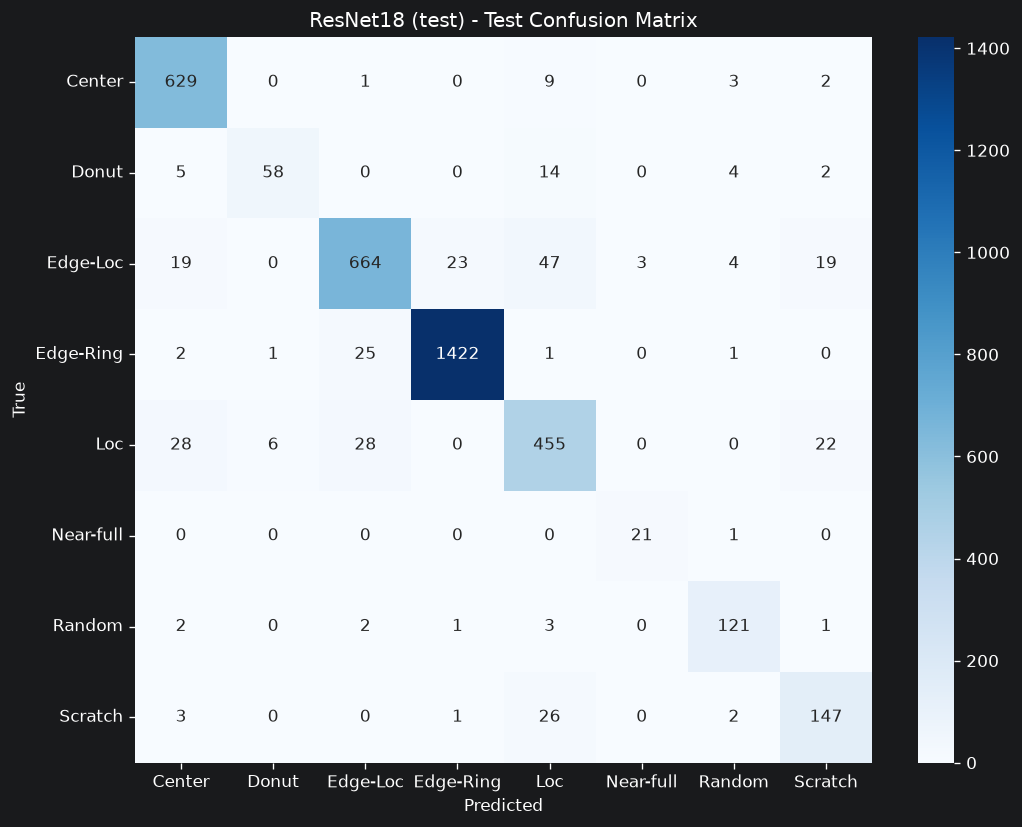
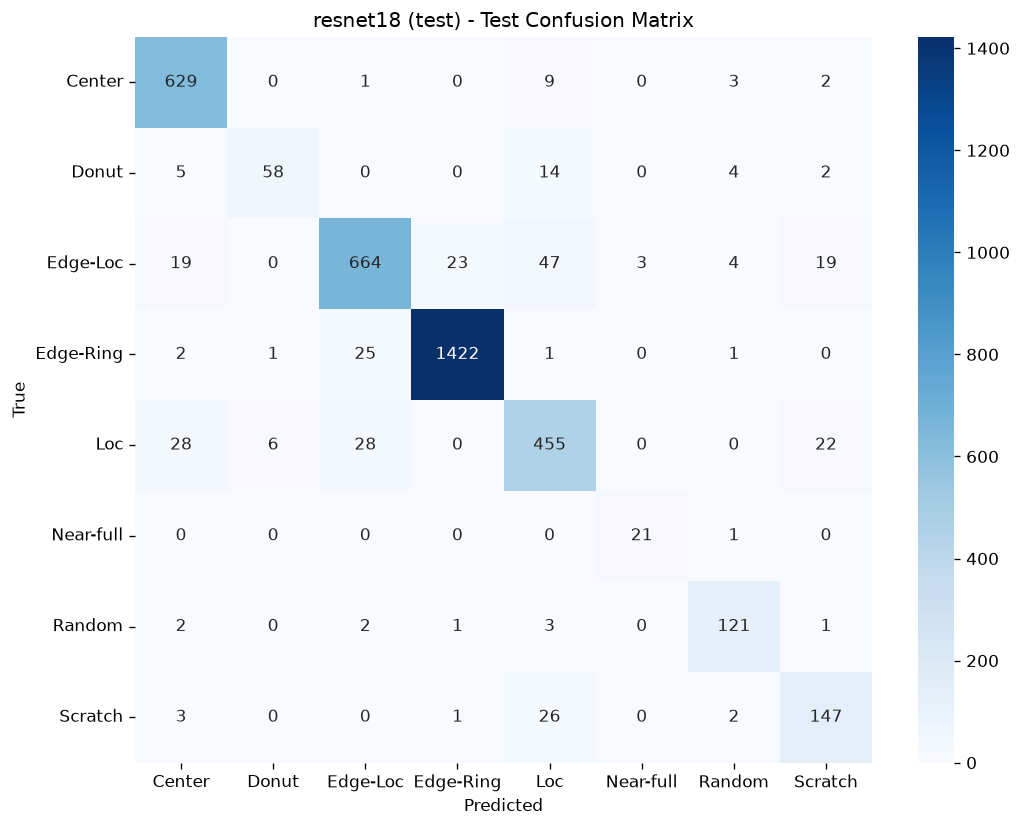
feat: train/evaluate CLI with parity-verified refactor (T2+T3)

diff --git a/src/wm811k/train.py b/src/wm811k/train.py
@@ -1,0 +1,69 @@
+"""CLI entry point: train a wafer defect classifier.
+
+Usage:
+    uv run python -m wm811k.train --config configs/default.yaml --model resnet18 --augment
+    uv run python -m wm811k.train --model resnet18 --augment --epochs 2   # smoke test
+
+The config file is the source of truth for hyperparameters; --epochs is the
+only override, provided for cheap end-to-end smoke tests before a full run.
+"""
+
+from __future__ import annotations
+
+import argparse
+from dataclasses import replace
+
+from wm811k.config import load_config
+from wm811k.data import build_loaders
+from wm811k.engine import fit
+from wm811k.models import build_model
+from wm811k.seed import set_seed
+
+
+def main() -> None:
+    parser = argparse.ArgumentParser(description="Train a wafer defect classifier.")
+    parser.add_argument(
+        "--config", default="configs/default.yaml",
+        help="Path to the YAML config (default: configs/default.yaml)",
+    )
+    parser.add_argument(
+        "--model", default="resnet18", choices=["cnn", "resnet18"],
+        help="Model architecture to train (default: resnet18)",
+    )
+    parser.add_argument(
+        "--augment", action="store_true",
+        help="Enable domain-safe augmentation (rot90/flip) on the train split",
+    )
+    parser.add_argument(
+        "--run-name", default=None,
+        help="MLflow run name (default: '<model>' or '<model>-aug')",
+    )
+    parser.add_argument(
+        "--epochs", type=int, default=None,
+        help="Override config epochs (for smoke tests only)",
+    )
+    args = parser.parse_args()
+
+    config = load_config(args.config)
+    if args.epochs is not None:
+        # Config dataclasses are frozen: build a modified copy instead of mutating.
+        config = replace(config, training=replace(config.training, epochs=args.epochs))
+
+    run_name = args.run_name or (f"{args.model}-aug" if args.augment else args.model)
+
+    set_seed(config.seed)
+    train_loader, val_loader, _ = build_loaders(config, augment=args.augment)
+    model = build_model(args.model, num_classes=config.num_classes)
+
+    best_path = fit(
+        model=model,
+        run_name=run_name,
+        train_loader=train_loader,
+        val_loader=val_loader,
+        config=config,
+    )
+    print(f"Best checkpoint: {best_path}")
+
+
+if __name__ == "__main__":
+    main()

diff --git a/src/wm811k/evaluate.py b/src/wm811k/evaluate.py
@@ -1,0 +1,63 @@
+"""CLI entry point: evaluate a trained checkpoint with per-class reporting.
+
+Usage:
+    uv run python -m wm811k.evaluate --checkpoint models/resnet18-aug_best.pt \
+        --model resnet18 --split test
+"""
+
+from __future__ import annotations
+
+import argparse
+
+from wm811k.config import load_config
+from wm811k.data import build_loaders
+from wm811k.engine import evaluate_and_report
+from wm811k.models import build_model
+from wm811k.seed import set_seed
+
+
+def main() -> None:
+    parser = argparse.ArgumentParser(
+        description="Evaluate a checkpoint: per-class report + confusion matrix."
+    )
+    parser.add_argument(
+        "--config", default="configs/default.yaml",
+        help="Path to the YAML config (default: configs/default.yaml)",
+    )
+    parser.add_argument("--checkpoint", required=True, help="Path to a .pt state_dict")
+    parser.add_argument(
+        "--model", default="resnet18", choices=["cnn", "resnet18"],
+        help="Architecture the checkpoint was trained with (default: resnet18)",
+    )
+    parser.add_argument(
+        "--split", default="test", choices=["train", "val", "test"],
+        help="Which split to evaluate on (default: test)",
+    )
+    parser.add_argument(
+        "--title", default=None,
+        help="Report title / figure name (default: '<model> (<split>)')",
+    )
+    args = parser.parse_args()
+
+    config = load_config(args.config)
+    set_seed(config.seed)
+
+    # augment=False always: evaluation must run on raw, untransformed data.
+    train_loader, val_loader, test_loader = build_loaders(config, augment=False)
+    loader = {"train": train_loader, "val": val_loader, "test": test_loader}[args.split]
+
+    model = build_model(args.model, num_classes=config.num_classes)
+    title = args.title or f"{args.model} ({args.split})"
+
+    cm_path = evaluate_and_report(
+        best_path=args.checkpoint,
+        model=model,
+        loader=loader,
+        title=title,
+        config=config,
+    )
+    print(f"Confusion matrix saved to: {cm_path}")
+
+
+if __name__ == "__main__":
+    main()

diff --git a/src/wm811k/engine.py b/src/wm811k/engine.py
@@ -118,7 +118,7 @@ def fit(
         "num_classes": config.num_classes,
     }
 
-    with mlflow.start_run(run_name=run_name):
+    with mlflow.start_run(run_name=run_name) as run:
         mlflow.log_params(run_params)
         for epoch in range(1, epochs + 1):
             train_loss = train_one_epoch(
@@ -160,6 +160,7 @@ def fit(
                     )
                     break
     print(f"Done! Best val_loss: {best_val_loss:.4f}")
+    print(f"MLflow run id: {run.info.run_id}")
     return best_path
 
 